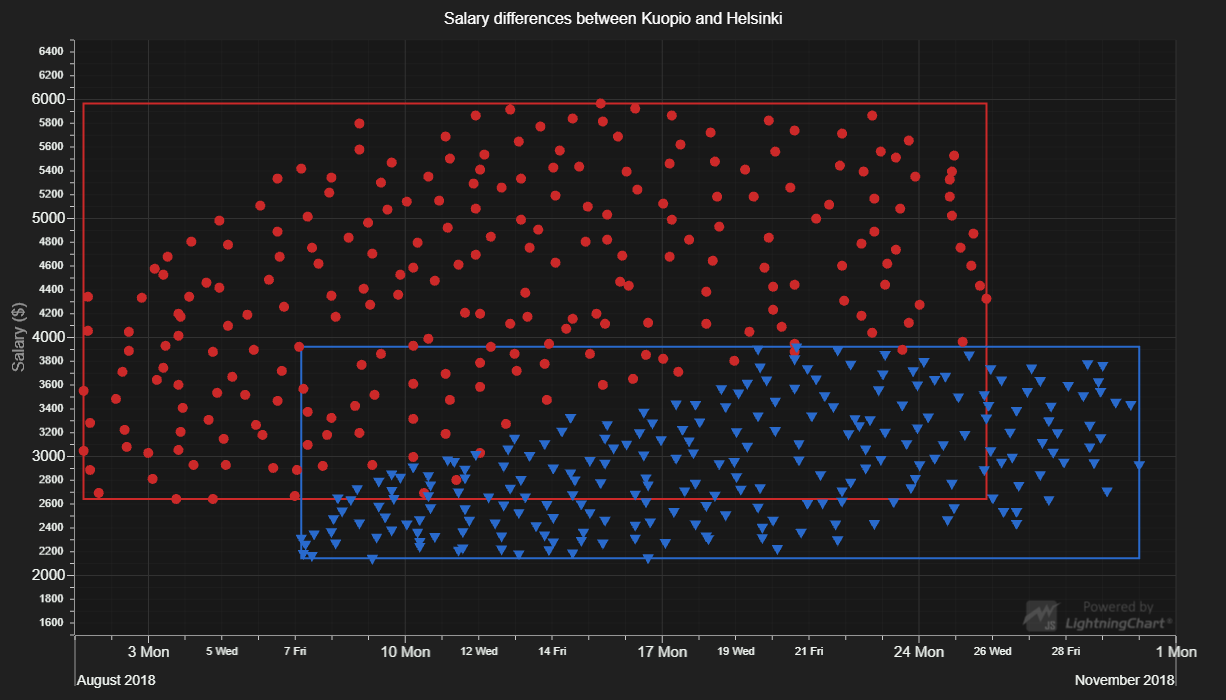
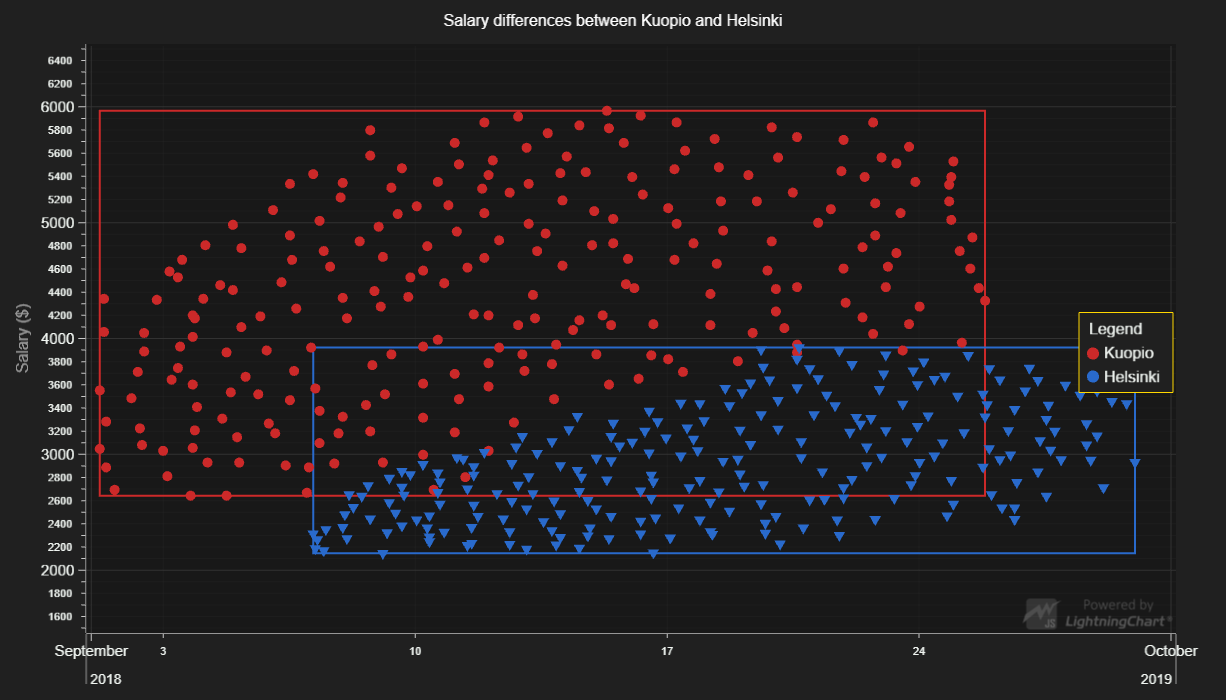
LCJS 3.0.0

diff --git a/src/index.js b/src/index.js
@@ -556,7 +556,7 @@ const drawCluster = (series, points) => {
     // Add points to specified series
     series.add(points.map(point => ({ x: point.x * dataFrequency, y: point.y })))
     // Cache top left corner of cluster area
-    series.setResultTableFormatter((builder, series, Xvalue, Yvalue) => {
+    series.setCursorResultTableFormatter((builder, series, Xvalue, Yvalue) => {
         return builder
             .addRow(`${series.getName()}`)
             .addRow('Date : ' + series.axisX.formatValue(Xvalue))
@@ -588,3 +588,8 @@ chart.setAutoCursor(cursor => (cursor)
     .setTickMarkerXAutoTextStyle(true)
     .setTickMarkerYAutoTextStyle(true)
 )
+
+// Finally, add LegendBox to chart.
+chart.addLegendBox()
+    .add(fstClusterSeries)
+    .add(sndClusterSeries)

diff --git a/README.md b/README.md
@@ -81,11 +81,11 @@ Direct developer email support can be purchased through a [Support Plan][4] or b
 © Arction Ltd 2009-2020. All rights reserved.
 
 
-[XY cartesian chart]: https://www.arction.com/lightningchart-js-api-documentation/v2.2.0/classes/chartxy.html
-[Point series]: https://www.arction.com/lightningchart-js-api-documentation/v2.2.0/classes/pointseries.html
-[Rectangle series]: https://www.arction.com/lightningchart-js-api-documentation/v2.2.0/classes/rectangleseries.html
-[Color palettes]: https://www.arction.com/lightningchart-js-api-documentation/v2.2.0/globals.html#colorpalettes
-[Solid FillStyle]: https://www.arction.com/lightningchart-js-api-documentation/v2.2.0/classes/solidfill.html
-[Empty FillStyle]: https://www.arction.com/lightningchart-js-api-documentation/v2.2.0/globals.html#emptyfill
-[Solid LineStyle]: https://www.arction.com/lightningchart-js-api-documentation/v2.2.0/classes/solidline.html
+[XY cartesian chart]: https://www.arction.com/lightningchart-js-api-documentation/v3.0.0/classes/chartxy.html
+[Point series]: https://www.arction.com/lightningchart-js-api-documentation/v3.0.0/classes/pointseries.html
+[Rectangle series]: https://www.arction.com/lightningchart-js-api-documentation/v3.0.0/classes/rectangleseries.html
+[Color palettes]: https://www.arction.com/lightningchart-js-api-documentation/v3.0.0/globals.html#colorpalettes
+[Solid FillStyle]: https://www.arction.com/lightningchart-js-api-documentation/v3.0.0/classes/solidfill.html
+[Empty FillStyle]: https://www.arction.com/lightningchart-js-api-documentation/v3.0.0/globals.html#emptyfill
+[Solid LineStyle]: https://www.arction.com/lightningchart-js-api-documentation/v3.0.0/classes/solidline.html
 
